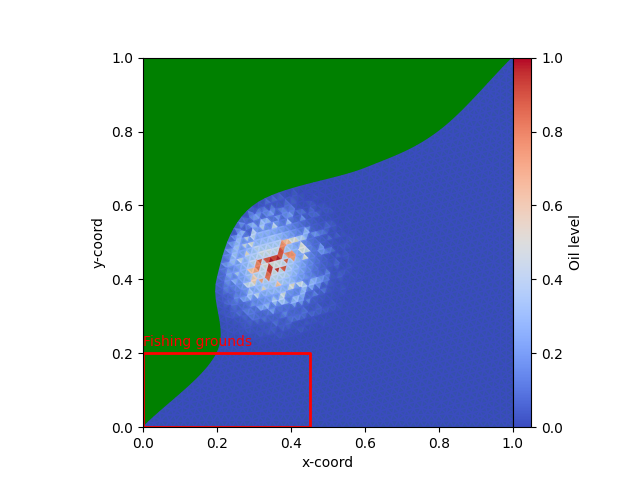
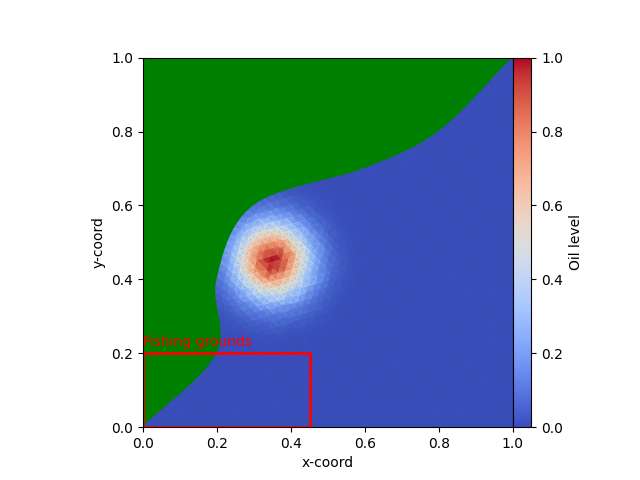
fix: Still troubleshooting

Changed region(s): [[0.3438, 0.4062, 0.5312, 0.6562]]

diff --git a/src/controller.py b/src/controller.py
@@ -48,11 +48,11 @@ class Controller:
 
                 if triangle is other:
                     continue
-                if triangle.get_n_borders() >= 3:
-                    break
-                if other.get_n_borders() >= 3:
+                elif triangle.get_n_borders() == 3:
                     continue
-                if points := triangle.check_neighbour(other.get_corner_points()):
+                elif other.get_n_borders() == 3:
+                    continue
+                elif points := triangle.check_neighbour(other.get_corner_points()):
                     border = Border(points[0], points[1], other)
                     triangle.add_border(border)
 
